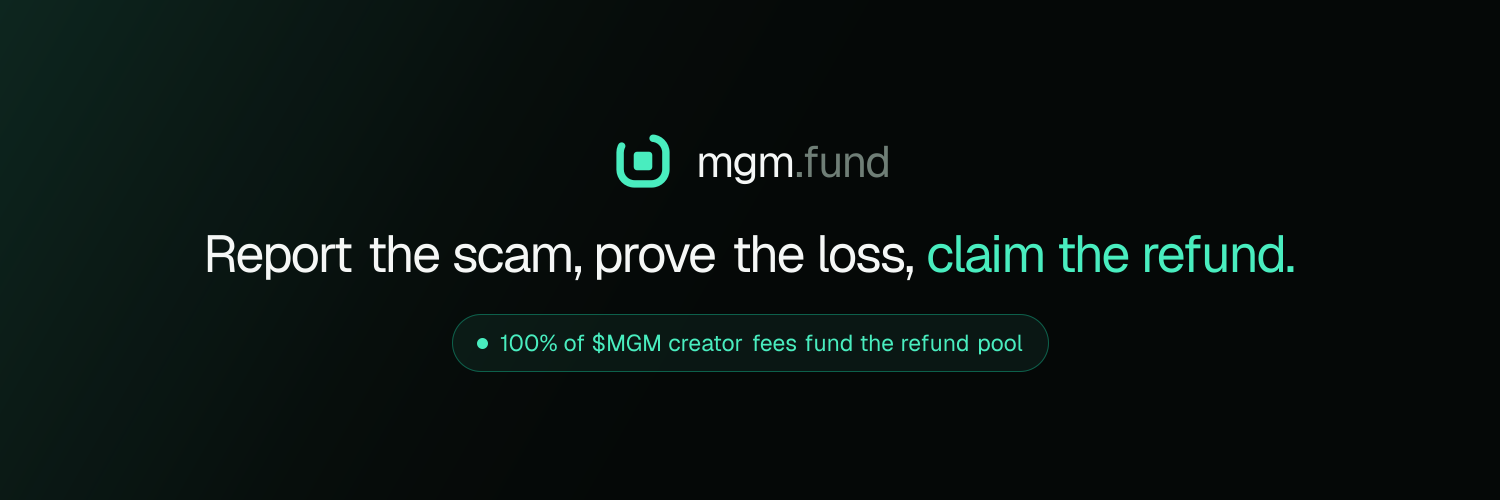
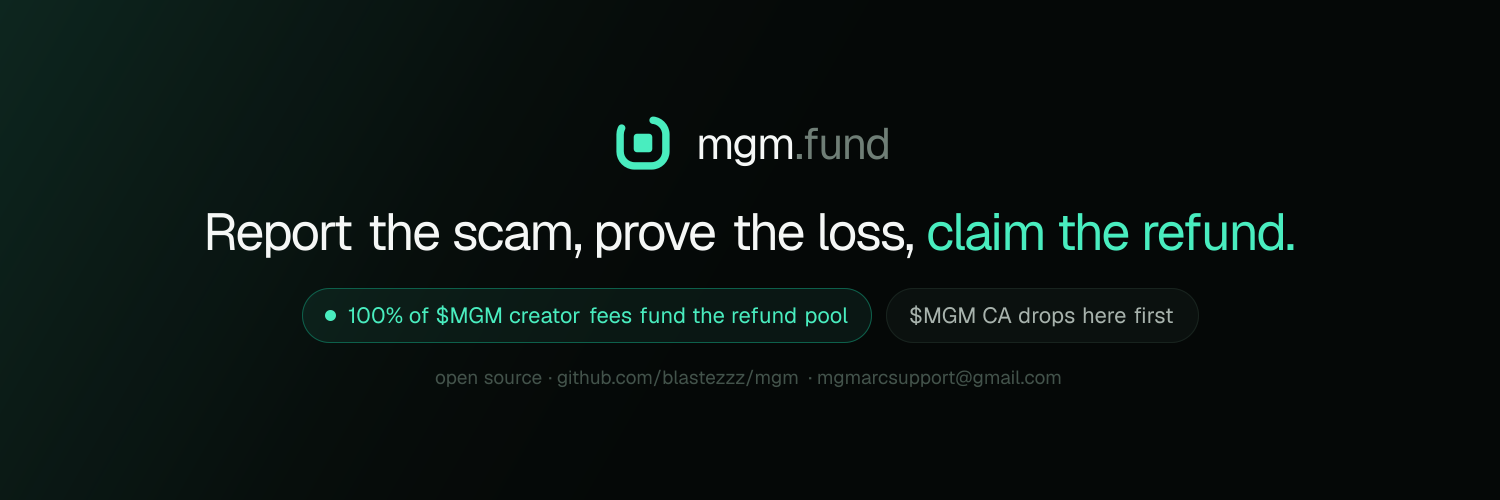
Put the CA warning and source line on the X header
The header is the one surface a visitor always sees, so it now carries the two
things that matter before they trade: fees fund the pool, and the $MGM contract
will be announced from the account itself.

Changed region(s): [[0.1227, 0.42, 0.8587, 0.57], [0.2147, 0.6, 0.7973, 0.78], [0.3987, 0.24, 0.6133, 0.39]]

diff --git a/app/brand/banner/route.tsx b/app/brand/banner/route.tsx
@@ -21,7 +21,7 @@ export async function GET() {
           flexDirection: "column",
           alignItems: "center",
           justifyContent: "center",
-          gap: 26,
+          gap: 22,
           backgroundColor: INK,
           backgroundImage:
             "linear-gradient(120deg, rgba(73,237,191,0.13) 0%, rgba(73,237,191,0.03) 30%, rgba(5,8,7,0) 55%)",
@@ -62,21 +62,42 @@ export async function GET() {
           Report the scam, prove the loss,&nbsp;<span style={{ color: JADE }}>claim the refund.</span>
         </div>
 
-        <div
-          style={{
-            display: "flex",
-            alignItems: "center",
-            gap: 12,
-            padding: "13px 24px",
-            borderRadius: 999,
-            border: "1px solid #0d604b",
-            background: "rgba(73, 237, 191, 0.07)",
-            fontSize: 23,
-            color: JADE,
-          }}
-        >
-          <div style={{ width: 11, height: 11, borderRadius: 11, background: JADE, display: "flex" }} />
-          100% of $MGM creator fees fund the refund pool
+        <div style={{ display: "flex", alignItems: "center", gap: 14 }}>
+          <div
+            style={{
+              display: "flex",
+              alignItems: "center",
+              gap: 12,
+              padding: "12px 22px",
+              borderRadius: 999,
+              border: "1px solid #0d604b",
+              background: "rgba(73, 237, 191, 0.07)",
+              fontSize: 22,
+              color: JADE,
+            }}
+          >
+            <div style={{ width: 11, height: 11, borderRadius: 11, background: JADE, display: "flex" }} />
+            100% of $MGM creator fees fund the refund pool
+          </div>
+
+          <div
+            style={{
+              display: "flex",
+              alignItems: "center",
+              padding: "12px 22px",
+              borderRadius: 999,
+              border: "1px solid #18231e",
+              background: "#0b110f",
+              fontSize: 22,
+              color: "#a8b3ad",
+            }}
+          >
+            $MGM CA drops here first
+          </div>
+        </div>
+
+        <div style={{ display: "flex", fontSize: 20, color: "#6f7e76" }}>
+          open source · github.com/blastezzz/mgm · mgmarcsupport@gmail.com
         </div>
       </div>
     ),
